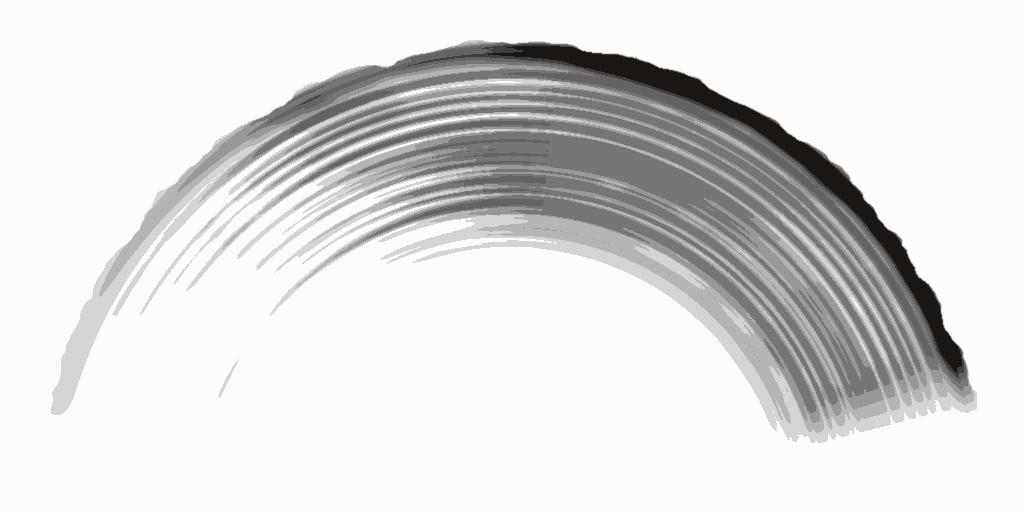
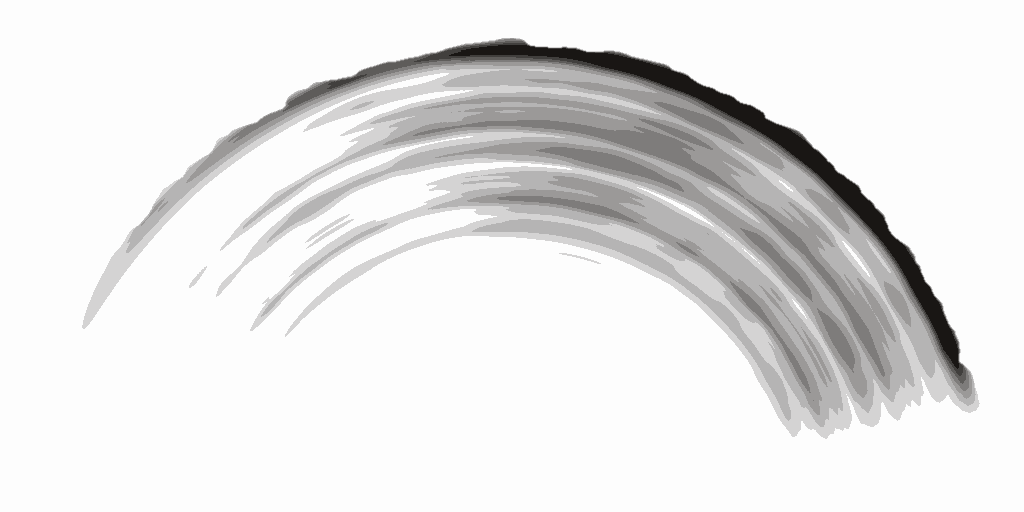
Godot take C6 F-12: slash curtain as broad dry-brush bands with tapered grey body

Changed region(s): [[0.0312, 0.0625, 0.9688, 0.875], [0.2188, 0.7188, 0.25, 0.75]]

diff --git a/godot/tools/bake_fx.py b/godot/tools/bake_fx.py
@@ -22,17 +22,20 @@ def slash(path, seed, W=1024, H=512):
     band = np.clip((r - r0) / (r1 - r0), 0, 1)
     inb = (r > r0) & (r < r1) & (t > 0) & (t < 1)
     # fibers: vary across radius, smooth along arc
-    prof = np.repeat(r_.random(96), 1).astype(np.float32)
-    prof = np.convolve(prof, np.ones(2) / 2, 'same')
-    idx = np.clip((band * 95).astype(int), 0, 95)
-    fib = prof[idx] * 0.7 + 0.3 * _fbm(H, W, r_, 3, 10)
+    # broad bristle bands (few, smooth) rather than many thin rings: reads as one wide
+    # dry-brush sweep with a grey body, like the reference curtain
+    knots = r_.random(22).astype(np.float32)
+    prof = np.interp(band, np.linspace(0, 1, 22), knots).astype(np.float32)
+    fine = np.interp(band, np.linspace(0, 1, 70), r_.random(70)).astype(np.float32)
+    fib = prof * 0.55 + fine * 0.15 + 0.3 * _fbm(H, W, r_, 3, 10)
     # break fibers along the arc too
     along = _fbm(H, W, r_, 3, 5)
     fib = fib * (0.65 + 0.7 * along)
     # trailing dry-out: fibers drop out progressively toward the tail
     dry = np.clip((t - 0.02) / 0.55, 0, 1)
     thresh = 0.85 - dry * 0.75
-    dens = np.clip((fib - thresh) * 2.2, 0, 1) * 0.62 + 0.12 * (1 - dry) * inb
+    tail = np.clip(t / 0.3, 0, 1) ** 1.5
+    dens = np.clip((fib - thresh) * 1.8, 0, 1) * 0.6 + 0.2 * (1 - dry) * inb * tail * (0.6 + 0.4 * along)
     # outer edge dark wet rim, inner edge soft
     rim = np.exp(-((band - 0.93) / 0.05) ** 2) * 0.9 * np.clip(t * 1.6, 0, 1)
     inner = np.clip(band / 0.25, 0, 1)
